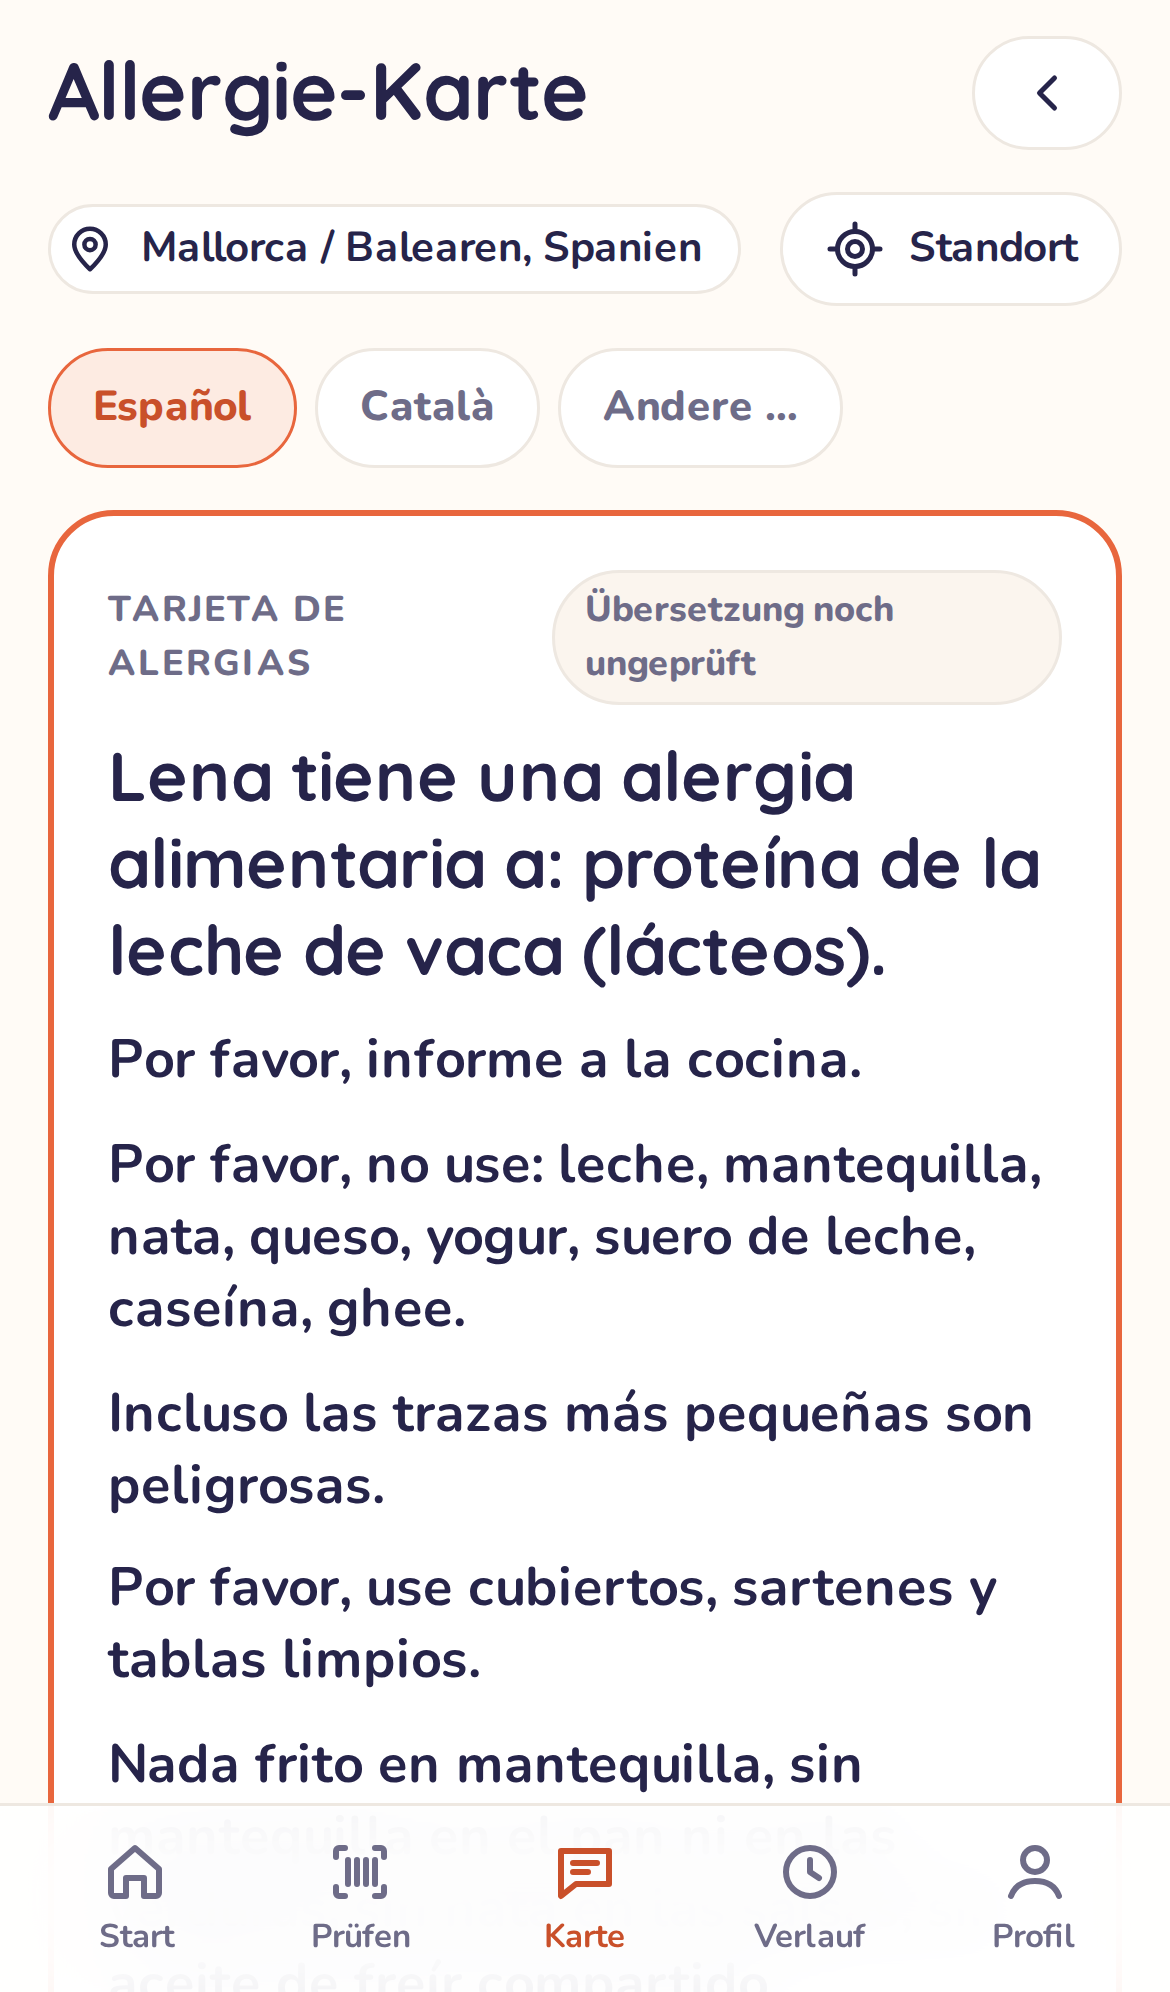
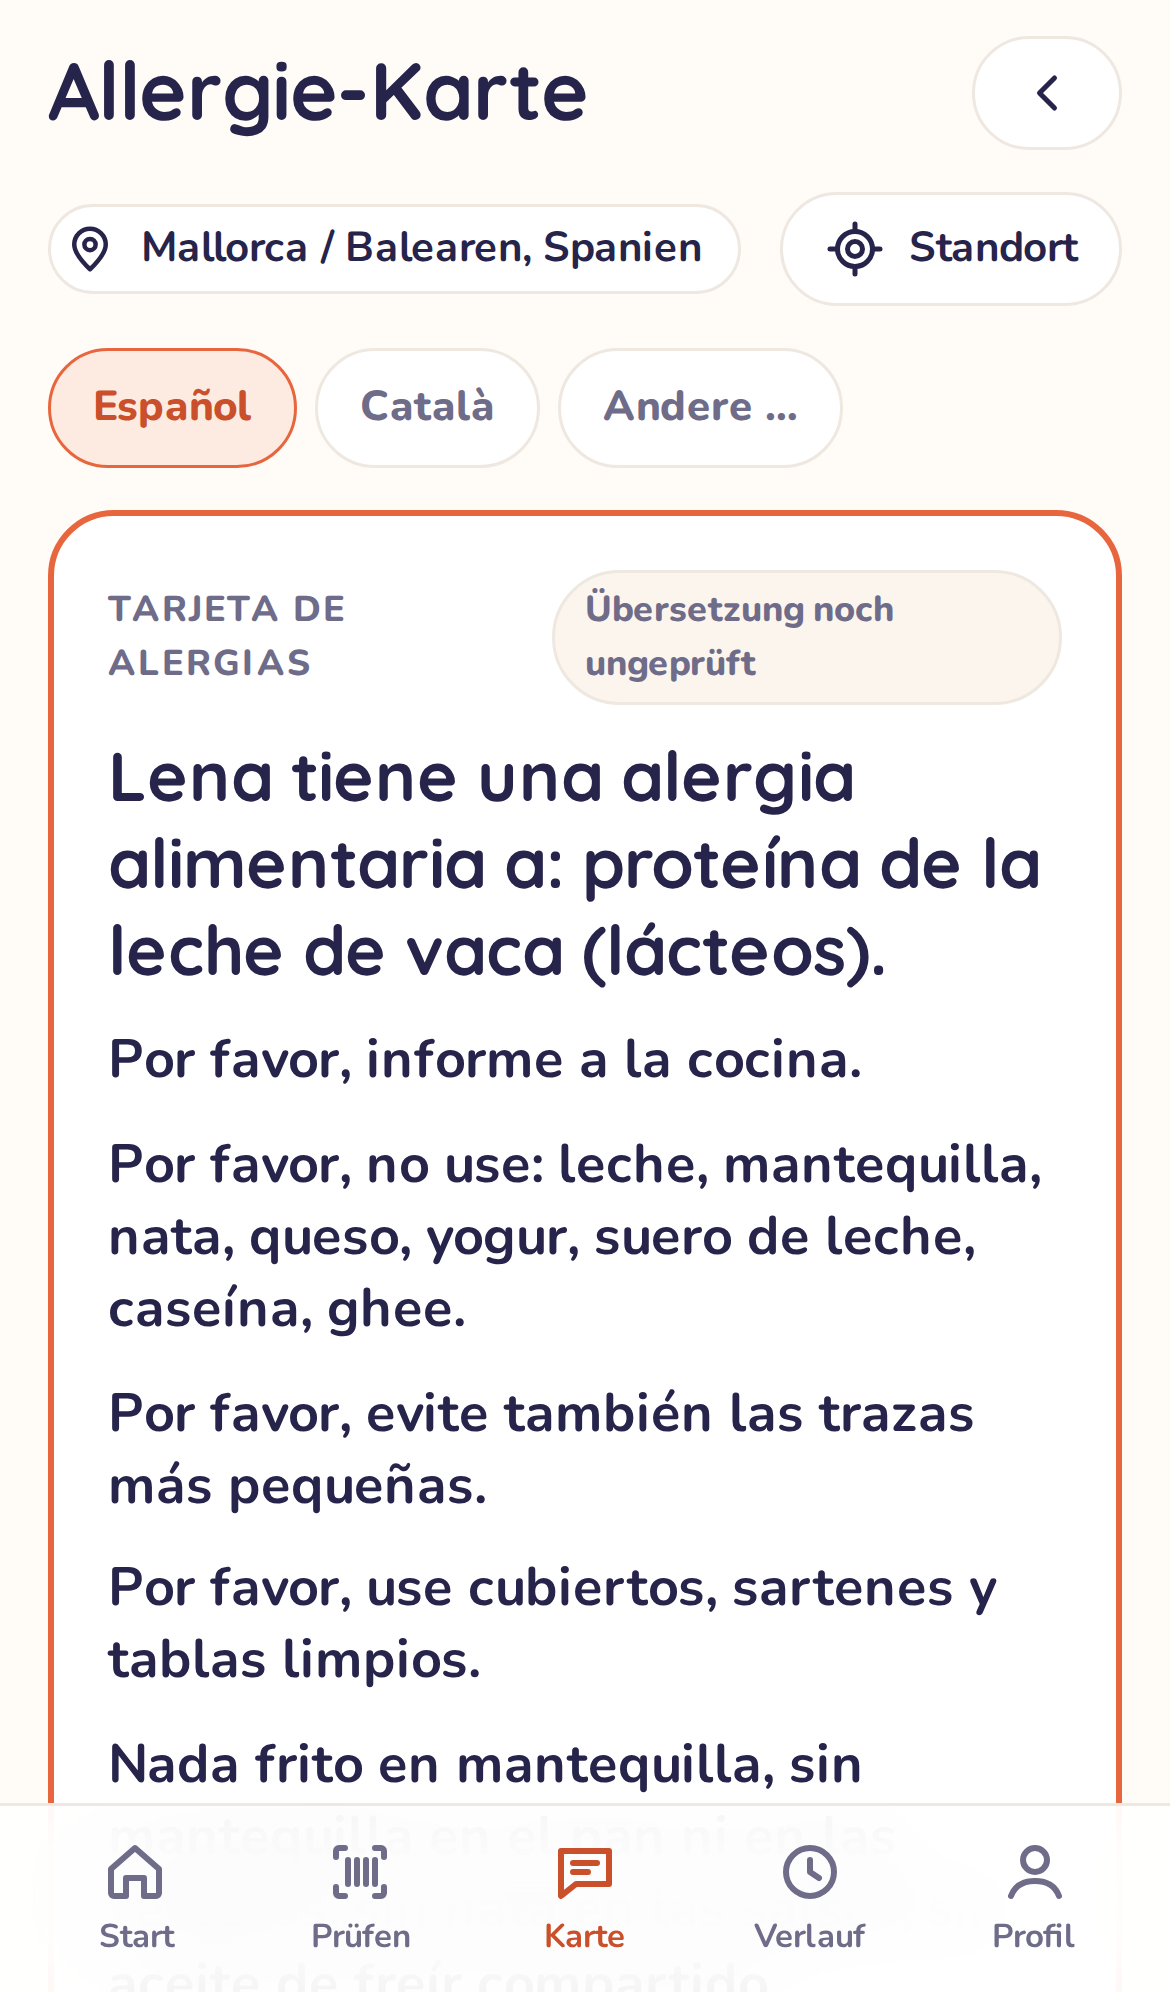
Allergie-Karte ohne 'gefährlich' bei 'Spuren meiden', Allergen-Auswahl zweispaltig
- Neuer Kartentext tracesSevere nur für 'Schwere Reaktion'; 'Auch Spuren
  meiden' sagt sachlich 'Bitte auch kleinste Spuren vermeiden' (11 Sprachen)
- Allergen-Raster erst ab 560 px dreispaltig, lange Wörter brechen um
- Tests, Screenshots, Wiki und Änderungsprotokoll aktualisiert (0.1.1)

Claude-Session: https://claude.ai/code/session_01XQ4yQFf9dkw1MQWmviFjhs

Changed region(s): [[0.0923, 0.6847, 0.8923, 0.7781]]

diff --git a/css/app.css b/css/app.css
@@ -175,8 +175,8 @@ textarea.input { min-height: 140px; resize: vertical; line-height: 1.5; }
 .opt[aria-checked="true"] { border-color: var(--accent); background: var(--soft); }
 .opt[aria-checked="true"] .dot { border: 7px solid var(--accent); }
 .allergen-grid { display: grid; grid-template-columns: repeat(2, minmax(0, 1fr)); gap: 8px; }
-.allergen { display: flex; align-items: center; gap: 8px; min-height: 52px; padding: 8px 12px; border-radius: 14px; border: 2px solid var(--line); background: var(--surface); cursor: pointer; text-align: left; font-weight: 700; font-size: 14.5px; line-height: 1.2; }
-.allergen small { display: block; font-weight: 600; font-size: 11.5px; color: var(--muted); }
+.allergen { display: flex; align-items: center; gap: 8px; min-height: 52px; padding: 8px 12px; border-radius: 14px; border: 2px solid var(--line); background: var(--surface); cursor: pointer; text-align: left; font-weight: 700; font-size: 14.5px; line-height: 1.2; hyphens: auto; overflow-wrap: anywhere; min-width: 0; }
+.allergen small { display: block; font-weight: 600; font-size: 12px; line-height: 1.3; color: var(--muted); margin-top: 2px; }
 .allergen[aria-pressed="true"] { border-color: var(--accent); background: var(--soft); }
 .allergen .check { width: 20px; height: 20px; border-radius: 6px; border: 2px solid var(--line); flex: none; display: grid; place-items: center; color: var(--accent-ink); font-size: 13px; }
 .allergen[aria-pressed="true"] .check { background: var(--accent); border-color: var(--accent); }
@@ -225,7 +225,7 @@ textarea.input { min-height: 140px; resize: vertical; line-height: 1.5; }
 details.card summary { cursor: pointer; font-weight: 700; list-style: none; }
 details.card summary::-webkit-details-marker { display: none; }
 details.card[open] summary { margin-bottom: 8px; }
-@media (min-width: 420px) { .allergen-grid { grid-template-columns: repeat(3, minmax(0, 1fr)); } }
+@media (min-width: 560px) { .allergen-grid { grid-template-columns: repeat(3, minmax(0, 1fr)); } }
 @media (prefers-reduced-motion: no-preference) {
   .btn, .hero-btn, .opt, .allergen, .tile { transition: transform .12s ease, background-color .15s ease, border-color .15s ease; }
   .btn:active, .hero-btn:active, .opt:active, .allergen:active, .tile:active { transform: scale(.98); }

diff --git a/tests/card-places.test.js b/tests/card-places.test.js
@@ -28,7 +28,8 @@ test("card follows the trace setting and severity", () => {
   const es = load("data/cards/es.json");
   const strict = buildCard({ name: "Lena", allergens: { milk: "avoidTraces" } }, es, { emergency: "112" });
   assert.match(strict.text, /^Lena tiene una alergia alimentaria a: proteína de la leche de vaca/);
-  assert.match(strict.text, /Incluso las trazas/);
+  assert.match(strict.text, /evite también las trazas/);
+  assert.doesNotMatch(strict.text, /peligros/, "avoiding traces is not described as dangerous");
   assert.match(strict.text, /mantequilla/);
   assert.doesNotMatch(strict.text, /112/); // emergency line only for severe
 
@@ -38,6 +39,7 @@ test("card follows the trace setting and severity", () => {
   const severe = buildCard({ name: "", allergens: { milk: "severe" } }, es, { emergency: "112" });
   assert.match(severe.text, /^Esta persona tiene una alergia grave/);
   assert.match(severe.text, /llame al 112/);
+  assert.match(severe.text, /Incluso las trazas más pequeñas son peligrosas/);
 });
 
 test("place from GPS point (offline)", () => {

diff --git a/src/core/card.js b/src/core/card.js
@@ -23,7 +23,7 @@ export function buildCard(person, card, { emergency } = {}) {
     fill(severe ? card.introSevere : card.intro, { name, list }),
     card.kitchen,
     foods ? fill(card.avoid, { foods }) : null,
-    strictTraces ? card.tracesStrict : card.tracesOk,
+    severe ? card.tracesSevere : strictTraces ? card.tracesStrict : card.tracesOk,
     card.cross,
     ids.includes("milk") || ids.includes("lactose") ? card.crossMilk : null,
     card.unsure,

diff --git a/src/ui/views/info.js b/src/ui/views/info.js
@@ -3,7 +3,7 @@ import { prepareOffline } from "../../services/ocr.js";
 import { icon, toast, LOGO } from "../dom.js";
 import { REPO } from "./result.js";
 
-export const VERSION = "0.1.0";
+export const VERSION = "0.1.1";
 
 export function render(main) {
   const s = store.get();

diff --git a/docs/wiki/Allergie-Karte.md b/docs/wiki/Allergie-Karte.md
@@ -5,12 +5,12 @@
 Die Allergie-Karte erklärt Personal im Restaurant, Hotel oder an der Theke in der **Landessprache**:
 - wer welche Allergie hat,
 - welche Zutaten nicht verwendet werden dürfen (bei Milch: Milch, Butter, Sahne, Käse, Joghurt, Molke, Kasein, Ghee …),
-- ob **auch Spuren** gefährlich sind (je nach Profil),
+- ob **auch Spuren** vermieden werden sollen (je nach Profil),
 - dass die **Küche informiert** werden soll,
 - wie man **Kreuzkontamination** vermeidet: sauberes Besteck, saubere Pfannen und Bretter, nicht in Butter braten, kein gemeinsames Frittieröl,
 - und dass Nachfragen ausdrücklich erwünscht ist.
 
-Bei „Schwere Reaktion“ steht zusätzlich die **Notrufnummer** des Landes auf der Karte.
+Nur bei der Stufe „Schwere Reaktion“ spricht die Karte von einer schweren Allergie, sagt, dass schon Spuren gefährlich sind, und nennt die **Notrufnummer** des Landes. Bei „Auch Spuren meiden“ bleibt der Ton sachlich: „Bitte auch kleinste Spuren vermeiden.“
 
 ## Ort wählen
 - Oben auf den Ort tippen → Land **und Region** wählen. Die Region zählt, weil sich die Sprache im Land unterscheiden kann:

diff --git a/docs/wiki/Aenderungsprotokoll.md b/docs/wiki/Aenderungsprotokoll.md
@@ -1,5 +1,9 @@
 # Änderungsprotokoll
 
+## 0.1.1
+- Allergie-Karte: Bei „Auch Spuren meiden“ heisst es jetzt sachlich „Bitte auch kleinste Spuren vermeiden“. Von „gefährlich“ spricht die Karte nur noch bei „Schwere Reaktion“.
+- Allergen-Auswahl auf dem Handy zweispaltig und besser lesbar (vorher gequetscht)
+
 ## 0.1.0 – Erste Version
 - Einrichtung mit Personen-Profilen und Spuren-Stufe pro Allergen
 - Barcode-Scan mit Open Food Facts, Produkt-Speicher für offline
